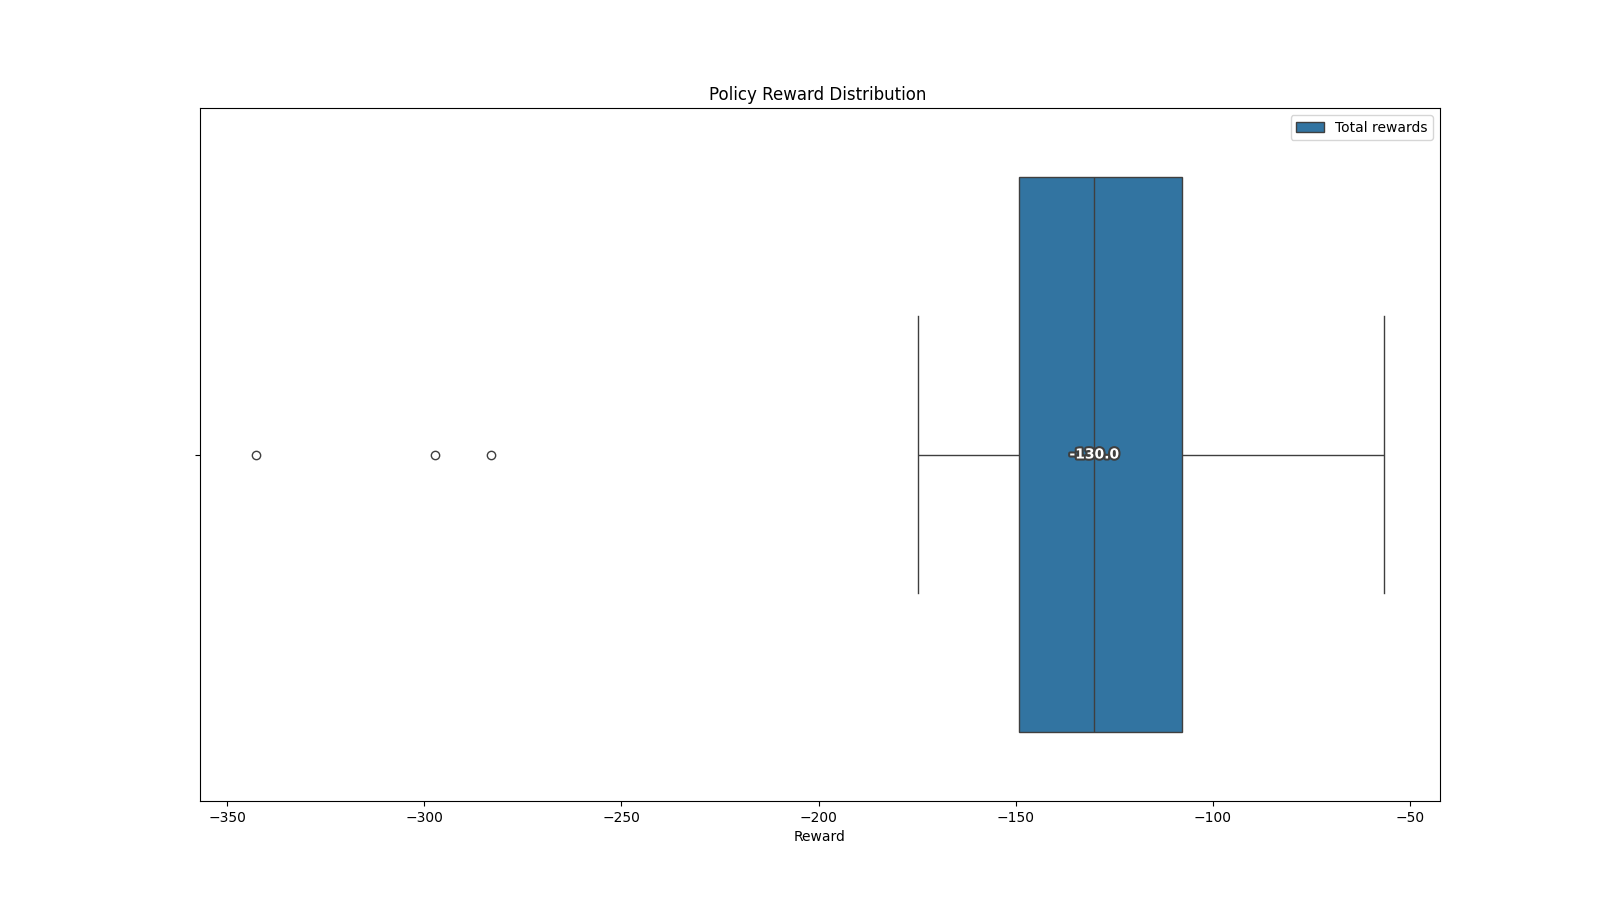
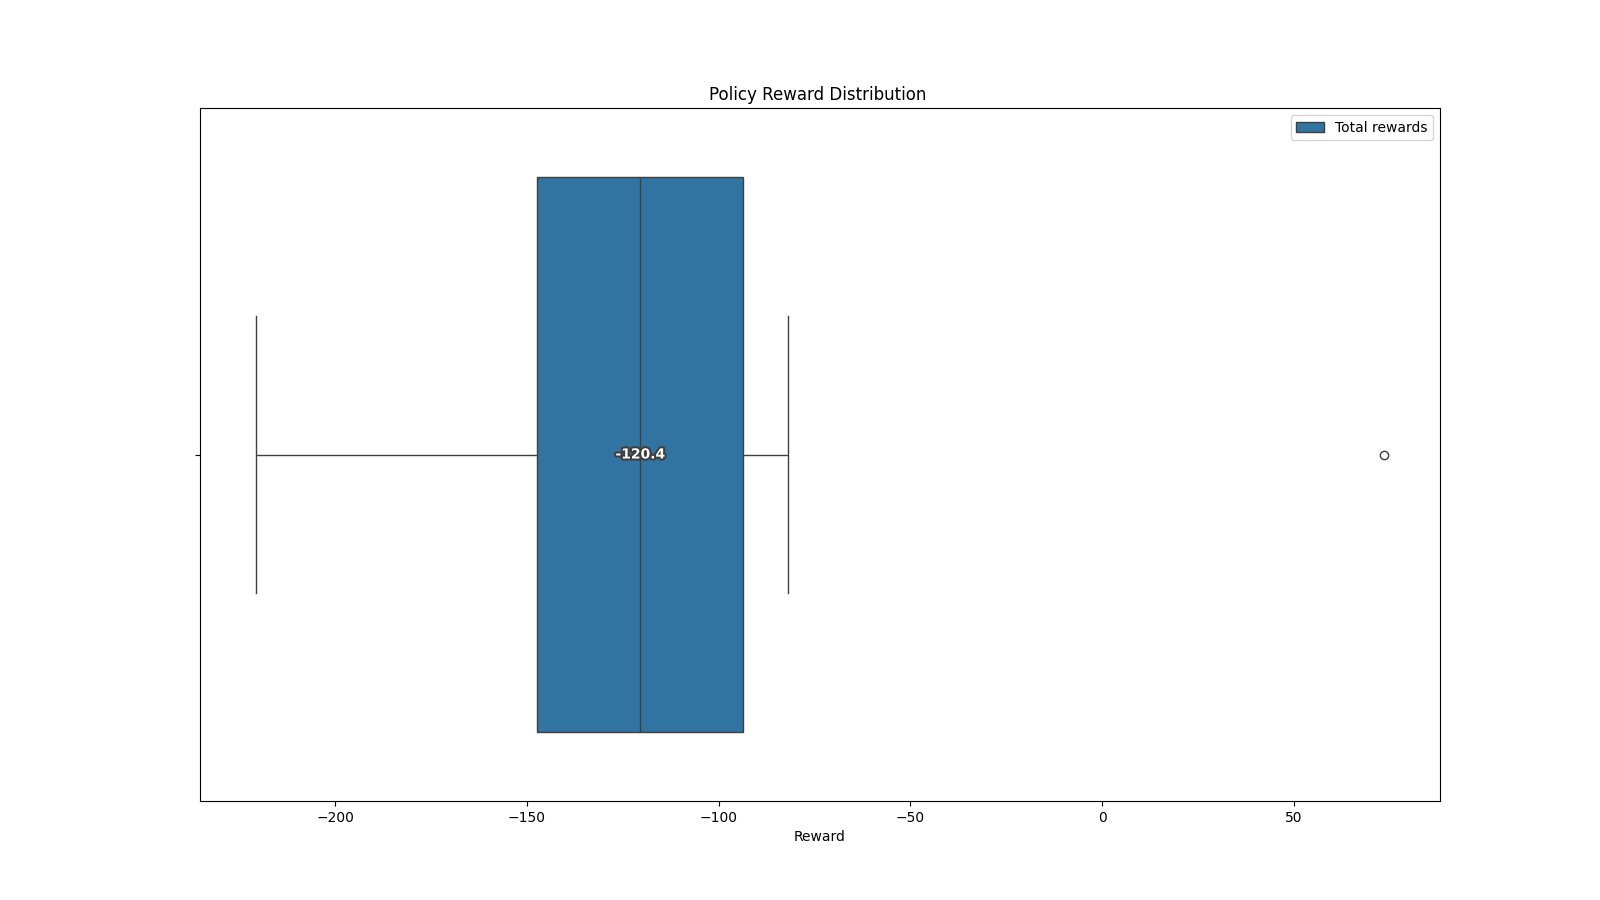
Complete video recording revamp

diff --git a/src/visualizer/basic.py b/src/visualizer/basic.py
@@ -12,6 +12,12 @@ import matplotlib.patheffects as path_effects
 from config import rolling_window
 from gymnasium.wrappers import RecordEpisodeStatistics, RecordVideo
 
+def get_moving_avgs(arr, window, convolution_mode):
+    return np.convolve(
+        np.array(arr).flatten(),
+        np.ones(window),
+        mode=convolution_mode
+    ) / window
 
 def add_median_labels(ax: plt.Axes, fmt: str = ".1f") -> None:
     """Add text labels to the median lines of a seaborn boxplot.
@@ -50,17 +56,27 @@ class Visualizer:
         self.agent = agent
         self.save_path = save_path
 
-    def plot_rewards(self, n_episodes, total_rewards, custom_name=""):
+    def plot_episode_statistics(self, n_episodes, statistic, statistic_name="", custom_name=""):
         plt.figure(figsize=(16, 9))
-        rmean = np.convolve(total_rewards, np.ones(rolling_window), 'valid') / rolling_window
-        plt.plot(np.arange(0, n_episodes), total_rewards, label='Total rewards', zorder=10)
-        plt.plot(np.arange(rolling_window - 1, n_episodes), rmean, label='Rolling Mean', zorder=20)
+        rmean = np.convolve(statistic, np.ones(rolling_window), 'valid') / rolling_window
+        plt.plot(np.arange(0, n_episodes), statistic, label=statistic_name, zorder=10)
+        plt.plot(np.arange(rolling_window - 1, n_episodes), rmean, label='Rolling Mean ' + statistic_name, zorder=20)
         plt.xlabel('Episodes')
-        plt.ylabel('Total reward')
-        plt.title(label="Training rewards " + custom_name)
+        plt.ylabel(statistic_name)
+        plt.title(label="Training " + custom_name)
         plt.legend()
-        plt.savefig(self.save_path + "/training_rewards_" + custom_name + ".png")
+        plt.savefig(self.save_path + "/training_" + statistic_name + "_" + custom_name + ".png")
         plt.close()
+
+    def plot_rewards(self, n_episodes, total_rewards, custom_name=""):
+        self.plot_episode_statistics(n_episodes, total_rewards, "Rewards", custom_name)
+
+    def plot_lengths(self, n_episodes, lengths, custom_name=""):
+        self.plot_episode_statistics(n_episodes, lengths, "Lengths", custom_name)
+
+    def plot_statistics(self, n_episodes, total_rewards, lengths, custom_name=""):
+        self.plot_rewards(n_episodes, total_rewards, custom_name)
+        self.plot_lengths(n_episodes, lengths, custom_name)
 
     def visualize_game(self, custom_name=""):
         rec_env = RecordVideo(env=self.env, video_folder=self.save_path + "/video_final",

diff --git a/src/main.py b/src/main.py
@@ -7,7 +7,8 @@ from trainer import REINFORCETrainer
 from visualizer import Visualizer
 from config import (device, hidden_size, learning_rate,
                     n_episodes, discount_factor, info_frequency,
-                    evaluation_time)
+                    evaluation_time, visualizer_path,
+                    video_record_period, checkpoint_path)
 
 if __name__ == "__main__":
     env = gym.make("LunarLander-v3", render_mode="rgb_array")
@@ -24,15 +25,20 @@ if __name__ == "__main__":
                                learning_rate=learning_rate,
                                optimizer_class=Optimizer_class,
                                info_frequency=info_frequency,
+                               checkpoint_path_=checkpoint_path,
+                               video_path=visualizer_path,
+                               record_period=video_record_period
                                )
-    last_policy, policies, rewards = trainer.train()
+    last_policy, policies, rewards, lengths = trainer.train()
 
     policy.load_state_dict(last_policy)
     final_agent = PolicyAgent(policy)
     visualizer = Visualizer(environment=env,
                             agent=final_agent)
-    visualizer.plot_rewards(n_episodes=n_episodes,
-                            total_rewards=rewards)
+    visualizer.plot_statistics(n_episodes=n_episodes,
+                               total_rewards=rewards,
+                               lengths=lengths,
+                               custom_name="")
     visualizer.visualize_game()
     visualizer.visualize_evaluation(evaluation_time, "")
 

diff --git a/src/trainer/reinforce_trainer.py b/src/trainer/reinforce_trainer.py
@@ -29,7 +29,6 @@ class REINFORCETrainer(Trainer):
 
 
     def train(self):
-        total_rewards = []
         policies = []
         for episode in tqdm(range(self.n_episodes)):
             state, _ = self.env.reset()
@@ -54,17 +53,16 @@ class REINFORCETrainer(Trainer):
             self.optimizer.zero_grad()
             loss.backward()
             self.optimizer.step()
-            total_rewards.append(sum(rewards))
             policies.append(self.agent.policy.state_dict())
             if (episode + 1) % self.info_frequency == 0:
-                print(f'Episode {episode}, Total Reward: {total_rewards[-1]:.2f}')
+                print(f'Episode {episode}, Total Reward: {sum(rewards):.2f}')
                 torch.save({
                     'episode': episode,
                     'model_state_dict': self.agent.policy.state_dict(),
                     'optimizer_state_dict': self.optimizer.state_dict(),
                 }, f'{self.checkpoint_path}/checkpoint_{episode}.tar')
         self.env.close()
-        return policies[-1], policies, total_rewards
+        return policies[-1], policies, self.env.return_queue, self.env.length_queue
 
 
     def calculate_loss(self, rewards, log_probs):

diff --git a/src/trainer/basic.py b/src/trainer/basic.py
@@ -17,6 +17,7 @@ class Trainer(ABC):
         self.agent = agent
         self.env=RecordVideo(env=env, video_folder=video_path + "/video_training",
                              episode_trigger=lambda x: x % record_period == 0)
+        self.env=RecordEpisodeStatistics(self.env, buffer_length=n_episodes)
         self.n_episodes = n_episodes
         self.discount_factor = discount_factor
 
